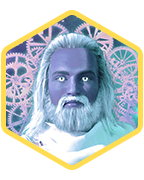
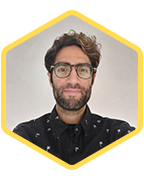
counter activated and dox update

diff --git a/src/template/HomeDemo3/SecTeam/index.jsx b/src/template/HomeDemo3/SecTeam/index.jsx
@@ -1,43 +1,44 @@
 import SectionHeading from '../../../components/SectionHeading'
 
-const SecTeam = ({data}) => {
+const SecTeam = ({ data }) => {
 
-  return (
-    <section className="our_team_area section-padding-0-0 clearfix" id="team">
-        <div className="container">
-            <div className="row">
-                <div className="col-12">
-                    <SectionHeading
-                        title='Oracle Team'
-                        text='We are a team of big hearted forward thinking individuals with a strong passion for crypto/blockchain technology!'
-                    />
+    return (
+        <section className="our_team_area section-padding-0-0 clearfix" id="team">
+            <div className="container">
+                <div className="row">
+                    <div className="col-12">
+                        <SectionHeading
+                            title='Oracle Team'
+                            text='We are a team of big hearted forward thinking individuals with a strong passion for crypto/blockchain technology!'
+                        />
+                    </div>
+                </div>
+
+                <div className="row">
+                    {data && data.map((item, key) => (
+                        <div className="col-12 col-sm-6 col-lg-3" data-aos="fade-up">
+                            <div className="single-team-member">
+                                <div className="team-member-thumb">
+                                    <img src={item.img} className="center-block" alt="" />
+                                </div>
+                                <div className="team-info">
+                                    <h5>{item.title}</h5>
+                                    <p>{item.text}</p>
+                                </div>
+                                <div className="team-social-icon">
+                                    <a href={item.telegram}><i className="fa fa-telegram"></i></a>
+                                    {/* <a href="#"><i className="fa fa-twitter"></i></a>
+                                    <a href="#"><i className="fa fa-instagram"></i></a>
+                                    <a href="#"><i className="fa fa-facebook"></i></a>
+                                    <a href="#"><i className="fa fa-skype"></i></a> */}
+                                </div>
+                            </div>
+                        </div>
+                    ))}
                 </div>
             </div>
-
-            <div className="row">
-                {data && data.map((item , key) => (
-                    <div className="col-12 col-sm-6 col-lg-3" data-aos="fade-up">
-                        <div className="single-team-member">
-                            <div className="team-member-thumb">
-                                <img src={item.img} className="center-block" alt="" />
-                            </div>
-                            <div className="team-info">
-                                <h5>{item.title}</h5>
-                                <p>{item.text}</p>
-                            </div>
-                            {/* <div className="team-social-icon">
-                                <a href="#"><i className="fa fa-twitter"></i></a>
-                                <a href="#"><i className="fa fa-instagram"></i></a>
-                                <a href="#"><i className="fa fa-facebook"></i></a>
-                                <a href="#"><i className="fa fa-skype"></i></a>
-                            </div> */}
-                        </div>
-                    </div>
-                ))}
-            </div>
-        </div>
-    </section>
-  );
+        </section>
+    );
 }
 
 export default SecTeam;

diff --git a/src/template/HomeDemo3/SecAboutUsClient/SecWhoWeContant/index.jsx b/src/template/HomeDemo3/SecAboutUsClient/SecWhoWeContant/index.jsx
@@ -14,7 +14,7 @@ const SecWhoWeContant = () => {
             <p data-aos="fade-up">Each Oracle NFT will give a certain amount of Oracle points based on the multipliers of the traits it has.</p>
             <p data-aos="fade-up">These points will qualify you to receive the airdrop of Oracle Tokens when the NFT phase has ended and the airdrop starts!</p>
             <p data-aos="fade-up">In addition, if you hold Rare NFT Club NFTs such as Rare Pepes, Pixel Pepes or REDPILL you will automatically be elegible for a certain amount of points/tokens based on your total holdings.</p>
-            <p data-aos="fade-up">A small portion of $ORACLE tokens will be airdropped to Wrapped Songbird (WSGB) holders!</p>
+            <p data-aos="fade-up">A small portion of $ORACLE tokens will be airdropped to Wrapped Songbird (WSGB) and other Random Songbird Token holders!</p>
             {/* <p data-aos="fade-up">The Mint Phase will start on April 22nd @ 12:00 P.M. PST and ends May 22nd @ 12:00P.M. PST.</p> */}
             <p data-aos="fade-up">⚠ MAKE SURE YOU ARE HOLDING ALL OF YOUR NFTS AT THE TIME OF THE SNAPSHOT AND UNTIL THE AIRDROP IS OFFICIALLY COMPLETE. IF YOU ARE NOT HOLDING THE NFTS AT THE TIME OF THE SNAPSHOT/AIRDROP YOU MAY BE MISSED!!</p>
 

diff --git a/src/data/data-containers/data-HomeDemo3.js b/src/data/data-containers/data-HomeDemo3.js
@@ -111,8 +111,8 @@ export const service_single_content = [
     },
     {
         img:HomeDemo3Services3,
-        title:'Liquidity Farming',
-        description: 'Users can provide liquidity and earn passive rewards! Oracle Swap Rewards users for providing liquidity to the DEX.',
+        title:'Liquidity Rewards',
+        description: 'Users can provide liquidity and earn rewards on swaps proportional to their share of the pool! Be aware of the risks of providing liquidity, such as impermanent loss!',
     },
     {
         img:HomeDemo3Services4,
@@ -425,13 +425,16 @@ export const MissionData = [
 export const TeamMember = [
     {
         img:HomeDemo3TeamImg1,
-        title:'Oracle Wizard',
-        text:'Orchestrator/Developer'
+        title:'CJ Master Oracle',
+        text:'Co-Founder',
+        telegram: 'https://t.me/CJ_Rare_Anon'
     },
     {
         img:HomeDemo3TeamImg2,
-        title:'Master Oracle',
-        text:'Designer/Administrator'
+        title:'Shahram Wizard Oracle',
+        text:'Co-Founder',
+        telegram: 'https://t.me/Shahram0x'
+
     },
     {
         img:HomeDemo3TeamImg3,

diff --git a/src/template/HomeDemo3/SecFAQ_Timeline/IcoCounter/index.jsx b/src/template/HomeDemo3/SecFAQ_Timeline/IcoCounter/index.jsx
@@ -20,9 +20,9 @@ const IcoCounter = () => {
                     <div className="counterdown-content">
 
                         <div className="count-down titled circled text-center">
-                            {/* <SlideCountdown
+                            <SlideCountdown
                                 weeks={false}
-                                deadline="2022-4-22 12:00:00" /> */}
+                                deadline="2022-5-05 17:00:00" />
                         </div>
                         {/* <div className="ico-progress">
                        <ul className="list-unstyled list-percent list-inline clearfix mb-10">
